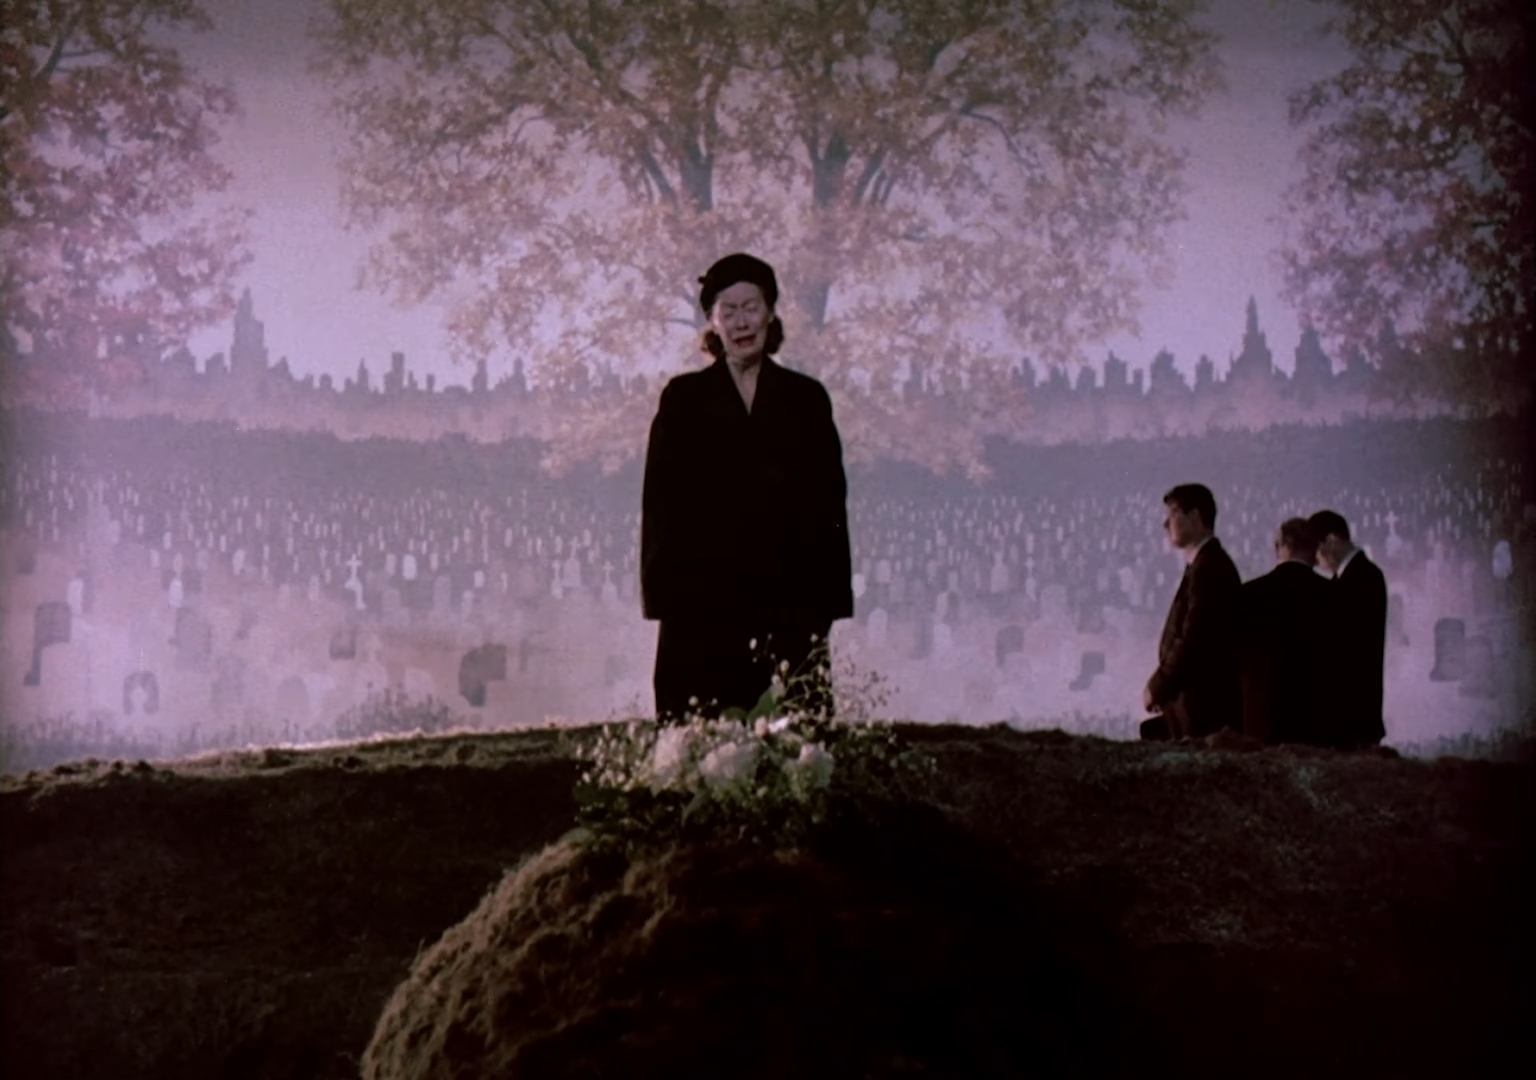
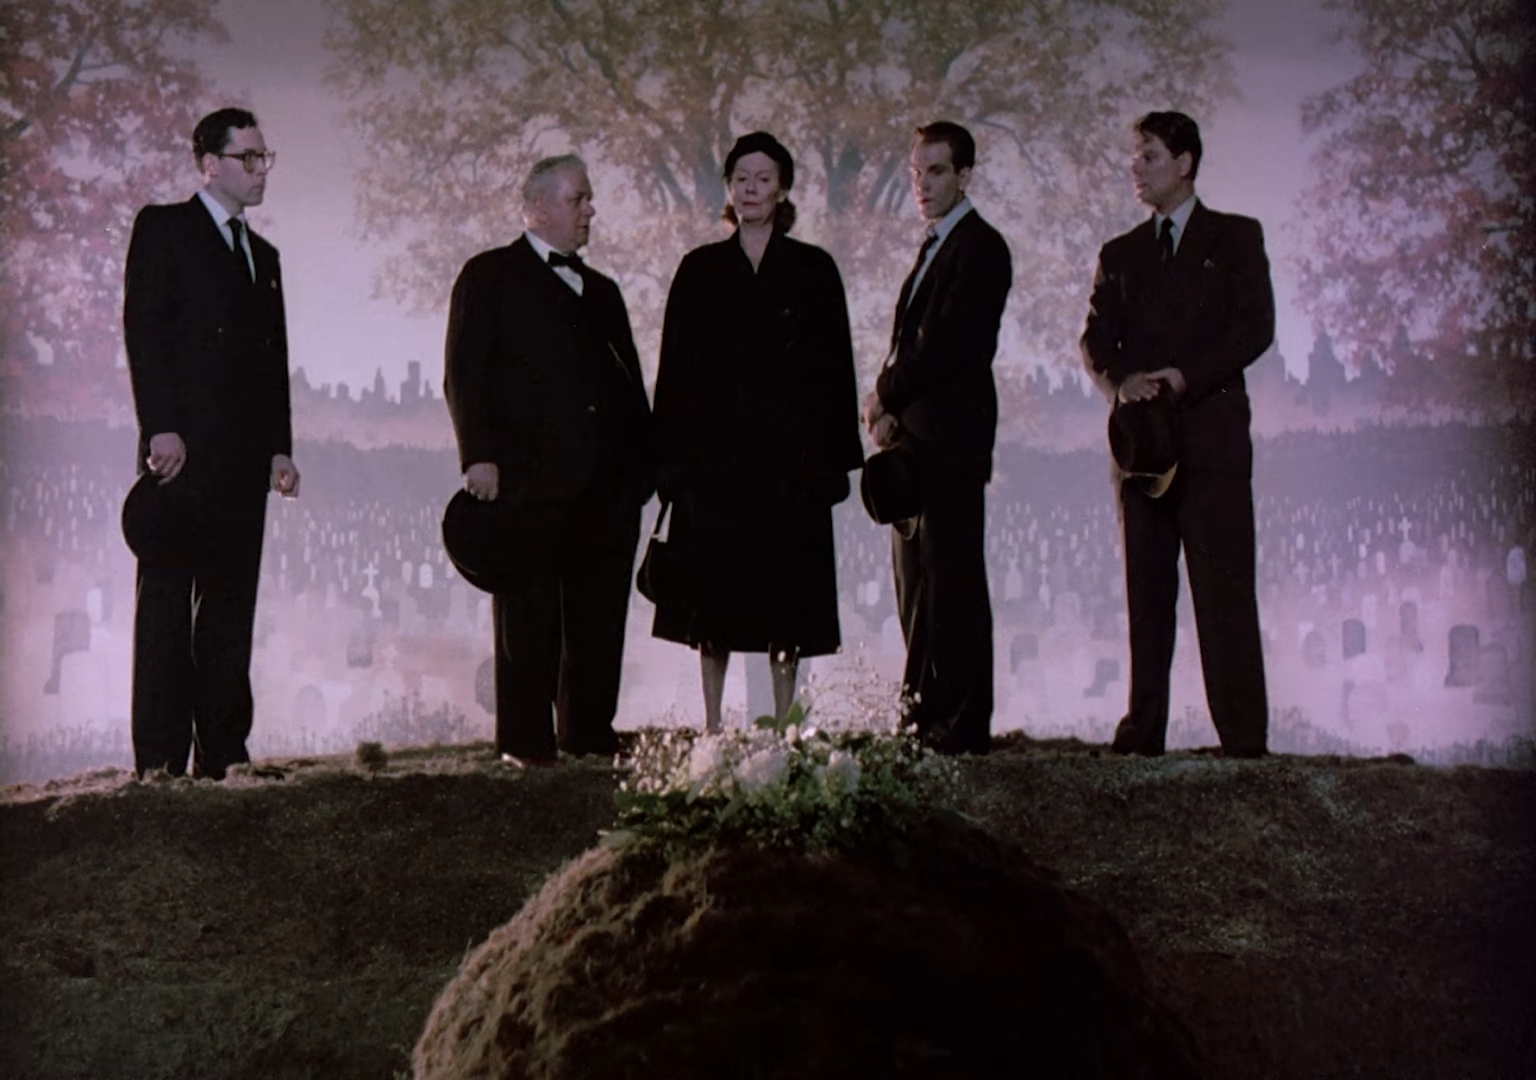
death scenes (can't go out way came in, very smart)

diff --git a/client/src/components/App.tsx b/client/src/components/App.tsx
@@ -101,7 +101,7 @@ const App = () => {
         setModalCaption(`Willy begins to recognize: he expired to Howard. Howard took the orange, the product value, from him and shows no appreciation for the peel, the human, that grew the orange. Willy is a worn product: sold to the Wagner company, retired by Howard.`);
         setModalVisible(true); 
         onHeaderChange(<>✅ <b>II:</b> Willy's dream dehumanizes him. ✅</>);
-        setCntHighlighted(c => c + 6);
+        setCntHighlighted(c => c + 8);
         break;
       case 8:
         onHeaderChange(<><b>III:</b> Willy refuses to change his American Dream.</>);
@@ -131,28 +131,40 @@ const App = () => {
         setModalVisible(true);
         break;
       case 12:
-        setModalTitle(`Biff: “He had the wrong dreams ... he never knew who he was” (138).`);
+        setModalTitle(`Willy: “A man can’t go out the way he came in, Ben, a man has got to add up to something ... Remember, it’s a guaranteed twenty-thousand-dollar proposition” (125-126).`);
         setModalImageSrc(require("../utility/13.png"));
-        setModalCaption(`By the end of the play, Willy emotionally shatters and dies, unable to accept reality.  Willy enjoyed construction, building, engineering; he was not born to be a salesman. He sought an unhappy or implausible life-goal.`);
+        setModalCaption(`By the end of the play, Willy emotionally shatters and dies, unable to accept reality and convinced that his children must “win” this American competition. The “something,” his life goal, is likely monetary gain or fame: in this case, possibly the “twenty-thousand-dollar” insurance plan. “Proposition” often refers to a business deal, highlighting Willy’s idea to sell his life to, from his perspective, help his children achieve the American Dream.`);
         setModalVisible(true);
         break;
       case 13:
-        setModalTitle(`Happy: “I’m gonna beat [the] racket ... [and prove that Willy Loman] had a good dream ... the only dream you can have—to come out number-one man” (138-139).`);
+        setModalTitle(`Willy: “It’s very smart ... I gotta go, baby. ’By! ’By! Going over to Ben, almost dancing: Imagine? When the mail comes [Biff will] be ahead of Bernard again!” (135).`);
         setModalImageSrc(require("../utility/14.png"));
+        setModalCaption(`After his final conversation with Biff, Willy expresses excitement about the impact of his death. His “dancing,” willingness, and near-enthusiasm to die to “be ahead” in the American Dream makes clear both his obsession with competition and excessive American capitalism’s potential flaws.`);
+        setModalVisible(true);
+        break;
+      case 14:
+        setModalTitle(`Biff: “He had the wrong dreams ... he never knew who he was” (138).`);
+        setModalImageSrc(require("../utility/15.png"));
+        setModalCaption(`By the end of the play, Willy emotionally shatters and dies, unable to accept reality.  Willy enjoyed construction, building, engineering; he was not born to be a salesman. He sought an unhappy or implausible life-goal.`);
+        setModalVisible(true);
+        break;
+      case 15:
+        setModalTitle(`Happy: “I’m gonna beat [the] racket ... [and prove that Willy Loman] had a good dream ... the only dream you can have—to come out number-one man” (138-139).`);
+        setModalImageSrc(require("../utility/16.png"));
         setModalCaption(`Even in death, Willy’s belief in his unique potential for success and refusal to change extends to Happy. As such, the play questions American society’s obsessions with materialism, highlighting Willy’s uncontrollable delusion and Happy’s ill-fated pursuit of the same flawed ideals.`);
         setModalVisible(true);
         onHeaderChange(<>✅ <b>III:</b> Willy refuses to change his American Dream. ✅</>);
         setCntHighlighted(c => c + 1);
         break;
-      case 14:
+      case 16:
         onHeaderChange(<><b><i>Conclusion</i></b></>);
         setModalTitle(`Conclusion`);
-        setModalImageSrc(require("../utility/15.png"));
+        setModalImageSrc(require("../utility/17.png"));
         setModalCaption(`Although Willy is a self-described salesman, perhaps he was also a product being sold or a customer being sold to: being owned by Howard’s company and being convinced of the implausible American Dream. Further, he sells the dream to his children, leading Happy down the same path. What if Willy Loman listened to Biff and sought his own meaning in life? What if Willy did what he loved most: building with his hands? Learning from Willy, maybe humanity should not seek to replicate the success of others, but to explore our passions and carve success that is truly ours.`);
         setModalVisible(true);
         setCntHighlighted(c => c + 1);
         break;
-      case 15:
+      case 17:
         setEnded(true);
         setTimeout(() => {
           if (!endScreenRef.current) return;
